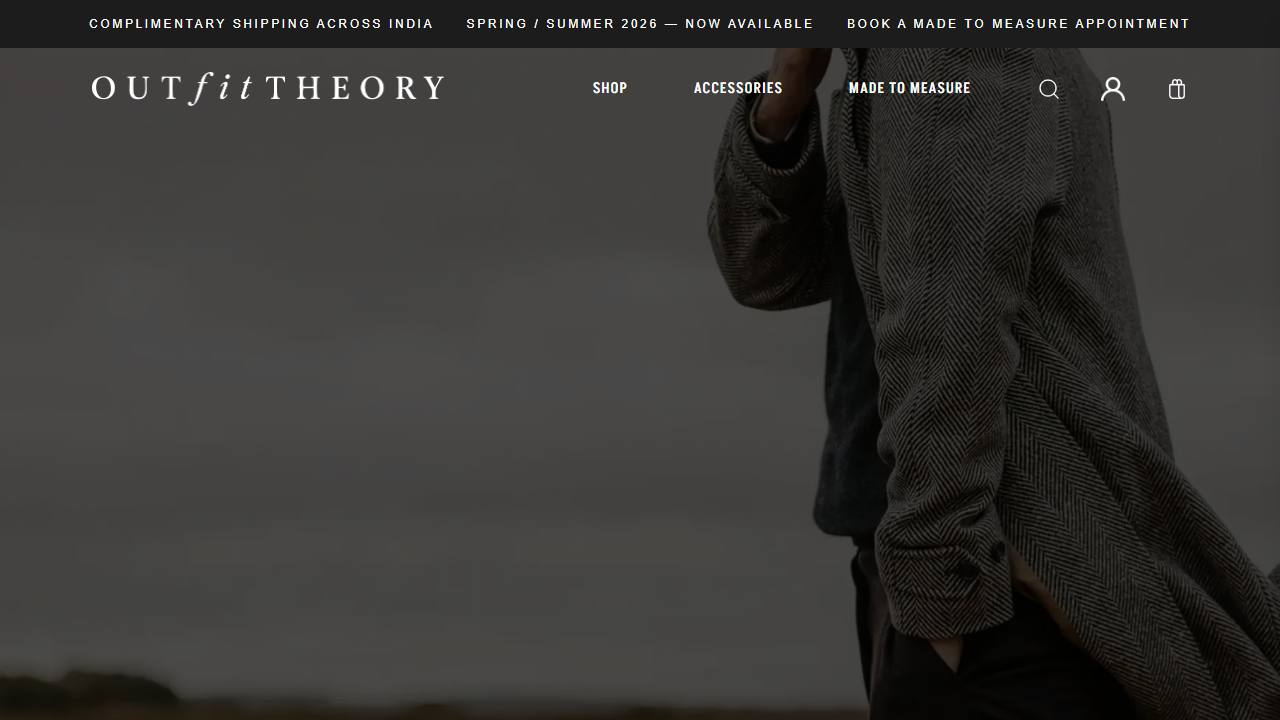
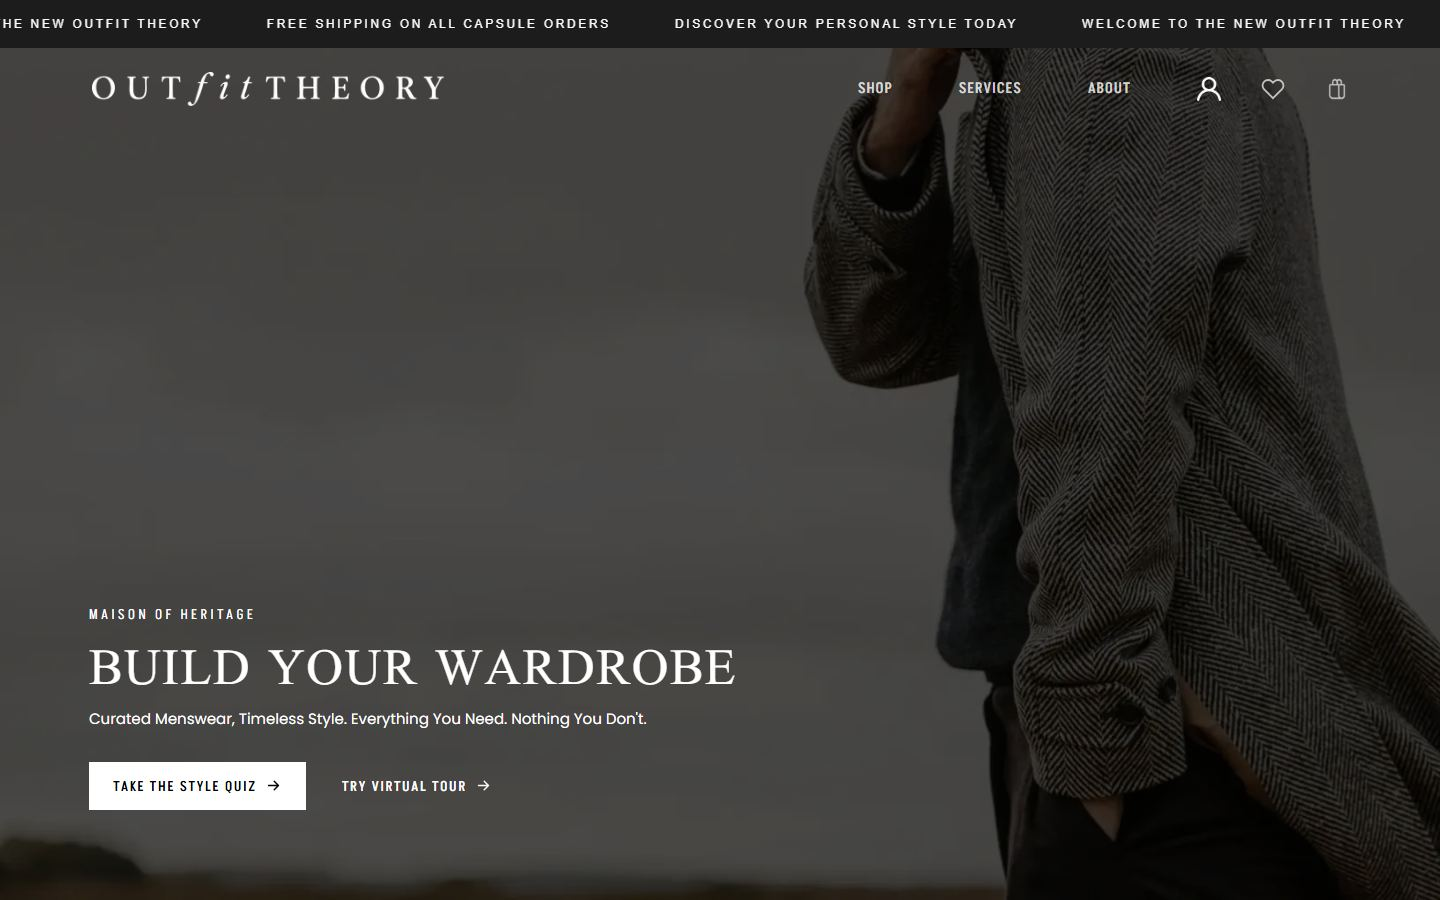
add the code

diff --git a/components/Projects.tsx b/components/Projects.tsx
@@ -48,6 +48,24 @@ const projectsData: ProjectItem[] = [
     image: "/projects/websites/clawbot.jpg",
     features: ['Role-based Auth', 'Interactive Pipelines', 'Secure API Gateway', 'Performance Dashboards']
   },
+  {
+    title: 'SchoolFMS – School Finance Management',
+    type: 'saas',
+    description: 'Full-stack school finance management platform for fees, salaries, operations, and admin workflows with secure role-based access and real-time dashboards.',
+    tags: ['React.js', 'Node.js', 'Prisma', 'PostgreSQL', 'SaaS'],
+    liveUrl: 'https://school-management-frontend-edenza.vercel.app/',
+    image: "/projects/websites/schoolfms.jpg",
+    features: ['Fee & Salary Management', 'Multi-Role Admin Access', 'Finance Dashboards', 'Secure School Operations']
+  },
+  {
+    title: 'ROOTS OS – Atelier Workspace',
+    type: 'saas',
+    description: 'Secure workspace login portal for Roots Atelier operations — managing atelier workflows, team access, and day-to-day studio operations.',
+    tags: ['SaaS', 'Workspace', 'Auth Portal', 'Operations'],
+    liveUrl: 'https://workspace.rootsatelier.in/login',
+    image: "/projects/websites/roots-os.jpg",
+    features: ['Secure Workspace Login', 'Atelier Operations Hub', 'Team Access Control', 'Studio Workflow Portal']
+  },
   // Professional Projects
   {
     title: 'Restaurant QR SaaS',
@@ -84,15 +102,6 @@ const projectsData: ProjectItem[] = [
     liveUrl: 'https://pos-frontend-rudu.onrender.com/',
     image: "/projects/websites/apexpos.jpg",
     features: ['Lightning-fast Billing Grid', 'Real-time Stock Tracking', 'Rich Revenue Analytics', 'Multi-Terminal Syncing']
-  },
-  {
-    title: 'SchoolFMS - Multi-Tenant SaaS',
-    type: 'saas',
-    description: 'Scalable school management SaaS with tenant-isolated architecture, RBAC, secure APIs, and complete finance + operations visibility.',
-    tags: ['Node.js', 'Express', 'Prisma', 'PostgreSQL'],
-    liveUrl: 'https://schoolfms.com/',
-    image: "https://images.unsplash.com/photo-1509062522246-3755977927d7?auto=format&fit=crop&q=80&w=800",
-    features: ['Multi-Tenant RBAC', 'Fee + Salary Workflows', 'Redis/BullMQ Queues', 'JWT + Socket.IO Security']
   },
   {
     title: 'Mirror Mind – AI Cognitive Companion',
@@ -338,13 +347,52 @@ const projectsData: ProjectItem[] = [
     features: ['Interactive Quote Estimator', 'Tech Stack Integration Matrix', 'Agile Process Flow Map', 'Premium UAE Corporate Style']
   },
   {
-    title: 'LetsCrack – Premium MCQ & Test Preparation Platform',
+    title: 'LetsCrack English – Test Preparation Platform',
     type: 'professional',
-    description: 'A production-grade, highly interactive online assessment and test preparation platform featuring full-screen MCQ test players, real-time grading, detailed feedback loops, and robust user dashboards.',
-    tags: ['React.js', 'Node.js', 'TypeScript', 'Tailwind CSS', 'MongoDB'],
-    liveUrl: 'https://letscrack-frontend.onrender.com/',
+    description: 'Interactive English test preparation platform with MCQ players, real-time grading, detailed feedback, and learner dashboards for exam readiness.',
+    tags: ['EdTech', 'React.js', 'Assessment', 'English Learning'],
+    liveUrl: 'https://letscrackenglish.com/',
     image: "/projects/websites/letscrack.jpg",
-    features: ['Dynamic MCQ Test Player', 'Real-time Result Analytics', 'Stateful Session Recovery', 'Admin Dashboard & RBAC']
+    features: ['MCQ Test Player', 'Result Analytics', 'Learner Dashboards', 'Exam Practice Flows']
+  },
+  {
+    title: 'Outfit Theory – Curated Menswear',
+    type: 'professional',
+    description: 'Editorial menswear storefront with curated outfits, capsule wardrobes, made-to-measure booking, and a virtual style experience.',
+    tags: ['E-Commerce', 'Fashion', 'React.js', 'Vercel'],
+    liveUrl: 'https://outfit-theory-web.vercel.app/',
+    image: "/projects/websites/outfit-theory.jpg",
+    features: ['Style Quiz & Virtual Tour', 'Capsule Wardrobe Shop', 'Made-to-Measure Booking', 'Editorial Lookbook UI']
+  },
+  {
+    title: 'ROOTS by Sujata Agrawal – Timeless Couture',
+    type: 'professional',
+    isLandingPage: true,
+    description: 'Luxury couture brand site for custom-tailored collections, heritage storytelling, and premium client consultation journeys.',
+    tags: ['Fashion', 'Couture', 'Landing Page', 'Luxury Brand'],
+    liveUrl: 'https://roots.mediaamasala.com/',
+    image: "/projects/websites/roots-atelier.jpg",
+    features: ['Couture Brand Story', 'Custom Tailoring Focus', 'Premium Visual Identity', 'Consultation CTAs']
+  },
+  {
+    title: 'Eurevaa Diagnostics',
+    type: 'professional',
+    isLandingPage: true,
+    description: 'Diagnostics brand website for healthcare services, lab offerings, and patient-facing booking and information flows.',
+    tags: ['Healthcare', 'Diagnostics', 'Corporate Web', 'Lead Gen'],
+    liveUrl: 'https://eurevaa.com/',
+    image: "/projects/websites/eurevaa.jpg",
+    features: ['Diagnostics Service Showcase', 'Patient-Focused UX', 'Brand Trust Design', 'Enquiry / Booking CTAs']
+  },
+  {
+    title: 'Aashi Jewels – Premium Diamond Jewellery',
+    type: 'professional',
+    isLandingPage: true,
+    description: 'Premium diamond jewellery storefront featuring lightweight certified collections, temple sets, rings, and Mumbai studio consultation booking.',
+    tags: ['E-Commerce', 'Jewellery', 'Luxury Retail', 'Landing Page'],
+    liveUrl: 'https://stellular-seahorse-c3bb81.netlify.app/',
+    image: "/projects/websites/aashi-jewels.jpg",
+    features: ['Diamond Collection Catalog', 'Occasion-Based Shopping', 'Studio Consultation Booking', 'Certified Jewellery Story']
   },
   {
     title: 'AECCI – Asian Exporters Chamber Portal',
@@ -355,15 +403,6 @@ const projectsData: ProjectItem[] = [
     liveUrl: 'https://www.aecci.org.in/',
     image: "/projects/websites/aecci.jpg",
     features: ['Export Membership Hub', 'Trade Program Showcase', 'Chamber Corporate Portal', 'Global Commerce Presence']
-  },
-  {
-    title: 'Outfit Theory – Curated Menswear',
-    type: 'professional',
-    description: 'Editorial menswear storefront with curated outfits, capsule wardrobes, made-to-measure booking, and a virtual style experience.',
-    tags: ['E-Commerce', 'Fashion', 'React.js', 'Netlify'],
-    liveUrl: 'https://outfit-theory-frontend.netlify.app/',
-    image: "/projects/websites/outfit-theory.jpg",
-    features: ['Style Quiz & Virtual Tour', 'Capsule Wardrobe Shop', 'Made-to-Measure Booking', 'Editorial Lookbook UI']
   },
   {
     title: 'Nisha Dryfruits & Spices',
